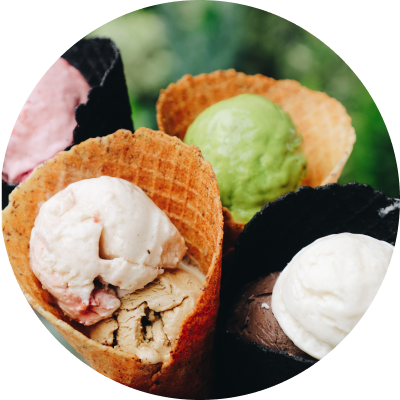
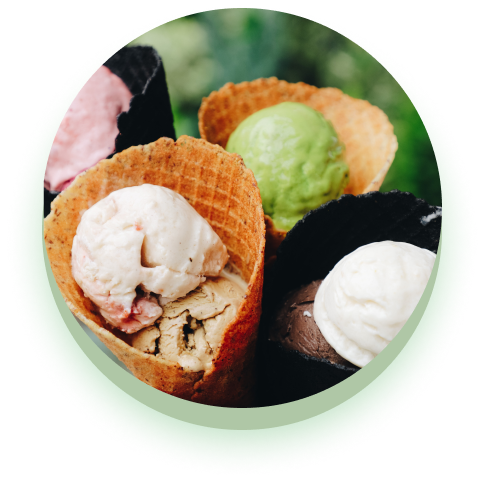
+base styles for products section

diff --git a/src/css/layout/products.css b/src/css/layout/products.css
@@ -1,10 +1,13 @@
 .products {
+    background-image: url('/img/products/products__background.png');
+    background-position: center;
+    background-repeat: repeat;
+    background-size: contain;
     padding-top: 60px;
     padding-bottom: 60px;
-    padding-left: 16px;
-    padding-right: 16px;
 }
-.products__title {
+
+.products__subtitle {
     color: #131313;
     text-align: center;
     font-family: Montserrat;
@@ -13,8 +16,11 @@
     font-weight: 800;
     line-height: normal;
     text-transform: uppercase;
+    
 }
-.products__subtitle {
+.products__title {
+    margin-top: 12px;
+    margin-bottom: 24px;
     color: #131313;
     text-align: center;
     font-family: "Seymour One";
@@ -24,18 +30,53 @@
     line-height: normal;
     letter-spacing: 1.2px;
     text-transform: uppercase;
+    margin-bottom: 148px;
 }
 .products__list {
+    display: flex;
+    flex-direction: column;
+    align-items: center;
+    gap: 168px;
 }
 .products__item {
+    position: relative;
+    width: 280px;
+    height: 420px;
+    border-radius: 24px;
+    margin-bottom: 60px;
 }
-
-.products__item-photo{
+.products__item:nth-child(1) {
+    background-color: #AEC6A5;
+}
+.products__item:nth-child(2) {
+    background-color: #EFD478;
+}
+.products__item:nth-child(3) {
+    background-color: #D6936D;;
 }
 
 .products__item-img {
+    position: absolute;
+    top: 0;
+    left: 50%;
+    transform: translate(-50%, -50%);
 }
+
+.products__item-img:nth-child(1) {
+    fill: linear-gradient(0deg, rgba(156, 190, 143, 0.70) 0%, rgba(156, 190, 143, 0.70) 100%), #D9D9D9;
+    filter: drop-shadow(0px 5.342px 20.033px rgba(10, 136, 23, 0.25));
+}
+.products__item-img:nth-child(2) {
+    fill: linear-gradient(0deg, rgba(248, 210, 78, 0.70) 0%, rgba(248, 210, 78, 0.70) 100%), #D9D9D9;
+filter: drop-shadow(0px 5.404px 20.265px rgba(153, 114, 23, 0.25));
+}
+.products__item-img:nth-child(3) {
+    fill: linear-gradient(0deg, rgba(213, 117, 63, 0.70) 0%, rgba(213, 117, 63, 0.70) 100%), #D9D9D9;
+    filter: drop-shadow(0px 5.413px 20.3px rgba(0, 0, 0, 0.25));
+}
+
 .products__item-title {
+    margin-top: 123px;
     color: #131313;
 text-align: center;
 font-family: Montserrat;
@@ -47,6 +88,11 @@ letter-spacing: 0.8px;
 text-transform: uppercase;
 }
 .products__item-text {
+    display: flex;
+    justify-content: center;
+    padding-left: 40px;
+    padding-right: 40px;
+    margin-top: 40px;   
     color: #131313;
 text-align: center;
 font-family: Montserrat;
@@ -55,9 +101,13 @@ font-style: normal;
 font-weight: 400;
 line-height: 176%; /* 24.64px */
 letter-spacing: 0.56px;
+
 }
 .products__item-svg {
+    position: absolute;
     width: 40px;
     height: 16px;
-    flex-shrink: 0;
+    bottom: 16px;
+    left: 50%;
+    transform: translate(-50%, -50%);
 }

diff --git a/src/partials/products.html b/src/partials/products.html
@@ -1,14 +1,10 @@
 <section class="products">
-    <h2 class="products__title">100% natural</h2>
-    <h1 class="products__subtitle">products</h1>
+    <div class="container">
+    <h2 class="products__subtitle">100% natural</h2>
+    <h1 class="products__title">products</h1>
     <ul class="products__list">
         <li class="products__item">
-            <picture class="products__item-photo">
-                <source srcset="/img/products/ice-cream.png 1x,
-                /img/products/ice-cream@2x.png 2x,">
-             <img src="#" alt="" class="products__item-img">
-            </picture>
-            
+            <img srcset="/img/products/ice-cream.png 1x, /img/products/ice-cream@2x.png 2x" src="#" alt="ice-cream" class="products__item-img">
             <h3 class="products__item-title">ice cream</h3>
             <p class="products__item-text">Soft ice cream with a delicate taste. Made with milk, cream, sugar and natural stabilizer
 
@@ -18,17 +14,16 @@
             </svg>
         </li>
         <li class="products__item">
-            <img src="" alt="" class="products__item-img">
+            <img srcset="/img/products/ice-coffee.png 1x, /img/products/ice-coffee@2x.png 2x" src="#" alt="ice-coffee" class="products__item-img">
             <h3 class="products__item-title">ice coffee</h3>
             <p class="products__item-text">Fragrant invigorating drink created from 100% natural ingredients without the use of preservatives and flavor enhancers
-
             </p>
             <svg class="products__item-svg">
                 <use href="/img/products/symbol-defs.svg#icon-arrow"></use>
             </svg>
-        </li>
+        </li> 
         <li class="products__item">
-            <img src="" alt="" class="products__item-img">
+            <img srcset="/img/products/milkshake.png 1x, /img/products/milkshake@2x.png 2x" src="#" alt="ice-coffee" class="products__item-img">
             <h3 class="products__item-title">milkshakes</h3>
             <p class="products__item-text">Sweet drinks based on milk and ice cream, supplemented with syrups, fruits, berries and other sweets of your choice
 
@@ -38,4 +33,5 @@
             </svg>
         </li>
     </ul>
+</div>
 </section>

diff --git a/src/partials/hero.html b/src/partials/hero.html
@@ -1,6 +1,7 @@
 <section class="hero">
   <div class="container">
     <h1>ice cream made with passion</h1>
+
     <button>Products</button>
   </div>
 </section>
